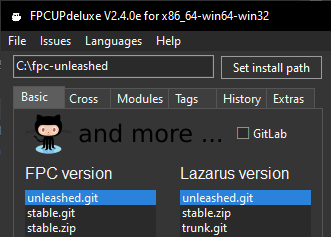
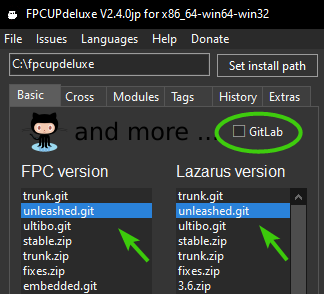
readme: rework installation section

diff --git a/README.md b/README.md
@@ -140,11 +140,19 @@ Semantic adjustments and small syntax unlocks - full catalog in [tweaks.md](unle
 
 Each feature has a dedicated reference page with the full grammar, semantics, edge cases, IDE notes, and a runnable demo. Start at the index: [unleashed/docs/README.md](unleashed/docs/README.md).
 
+## Unleashed IDE
+
+For the best experience, use **[Unleashed Pascal IDE](https://github.com/unleashedpascal/ide)** - a fork of the Lazarus IDE that understands unleashed mode end to end. Its parser, code completion, and Code Insight know the new syntax, so inline vars, tuples, `match`, `async` / `await`, and the rest autocomplete and navigate like any built-in construct, with no false-positive error markers in the editor.
+
+Stock Lazarus still builds and runs Unleashed projects fine, but its Code Insight does not recognize the new syntax and will flag it as errors. If you stay on stock Lazarus, enable the mode through `-Munleashed` in the project's Custom Options rather than `{$mode unleashed}` in the source - that keeps the editor's background parser quieter about the constructs it cannot model.
+
 ## Installation
 
-### Option 1: Official installer (recommended)
+### Option 1: Official installer
 
-Self-contained GUI installer for Windows and Linux: it downloads sources, builds the compiler and the Lazarus IDE into a directory of your choice, optionally installs cross compilers, and drops a desktop shortcut. No PATH changes, no registry side effects, no overwriting of an existing FPC. Run it again any time to add a cross target or pull an update - it applies only that change and leaves the rest of the install alone.
+Self-contained GUI installer for Windows and Linux: it downloads sources, builds the compiler and the IDE into a directory of your choice, optionally installs cross compilers, and drops a desktop shortcut wired to a per-install IDE config. No PATH changes, no registry side effects, no overwriting of an existing FPC - the whole thing lives in one folder and can be deleted by deleting that folder.
+
+Cross targets are checkboxes: `x86_64-win64`, `x86_64-linux`, `i386-win32`, `i386-linux`, `wasm32-wasip1`. You can also pin the compiler and the IDE to a branch or a specific commit instead of taking the latest.
 
 - Repo: [unleashedpascal/installer](https://github.com/unleashedpascal/installer)
 - Downloads: [installer/releases](https://github.com/unleashedpascal/installer/releases) - tagged stable releases plus a rolling `nightly` that tracks `main`
@@ -153,40 +161,17 @@ Self-contained GUI installer for Windows and Linux: it downloads sources, builds
 
 Run it, pick a directory (default `C:\unleashed` on Windows, `$HOME/unleashed` on Linux), tick the cross targets you want, click Install.
 
-### Option 2: Fresh install via fpcupdeluxe
+It can also build optional IDE addons in the same pass, so the editor is set up the way you like it before you write the first line - **Minimap** (a scaled-down view of the whole unit next to the editor), **MetaDarkStyle** (dark IDE theme), **CPU-View** (debugger plugin) and CHM help files, among others.
 
-1. Download [fpcupdeluxe](https://github.com/LongDirtyAnimAlf/fpcupdeluxe) and run it once to generate `fpcup.ini`.
-2. Add to `fpcup.ini`:
+Re-runs are surgical: unchanged parts self-skip, a newly ticked cross target gets built, an unticked one gets removed, and toggling an addon rebuilds just the IDE. Point it at an existing install to pull an update without touching anything else.
 
-```ini
-[ALIASfpcURL]
-unleashed.git=https://github.com/unleashedpascal/compiler.git
+### Option 2: fpcupdeluxe
 
-[ALIASlazURL]
-unleashed.git=https://github.com/unleashedpascal/ide.git
-```
+fpcupdeluxe supports Unleashed out of the box - nothing to configure. Download [fpcupdeluxe](https://github.com/LongDirtyAnimAlf/fpcupdeluxe/releases/tag/v2.4.0jpu), untick **GitLab**, and pick `unleashed.git` as the **FPC version** and the **Lazarus version**. From there it behaves like any regular FPC install: FPC only, Lazarus only, or both at once, with cross-compilers on the `Cross` tab.
 
-3. Reopen **fpcupdeluxe**, uncheck **GitLab**, and select `unleashed.git` as both the **FPC version** and the **Lazarus version**.
-4. In **Setup+** tick **Docked Lazarus IDE** (required - the default window layout is tuned for docked mode).
-5. Click **Install/update FPC+Lazarus**. Cross-compilers are on the `Cross` tab.
+In **Setup+** tick **Docked Lazarus IDE** - the default window layout is tuned for docked mode.
 
 ![fpcupdeluxe](unleashed/img/installation_fpcupdeluxe.png)
-
-### Option 3: Upgrade an existing fpcupdeluxe setup
-
-Delete or rename the `fpcsrc` folder in your installation directory, then:
-
-```bash
-git clone https://github.com/unleashedpascal/compiler.git fpcsrc
-```
-
-In fpcupdeluxe: **Setup+**, check **FPC/Laz rebuild only**, confirm, then click **Only FPC**.
-
-## Unleashed IDE
-
-For the best experience, use **[Unleashed Pascal IDE](https://github.com/unleashedpascal/ide)** - a fork of the Lazarus IDE that understands unleashed mode end to end. Its parser, code completion, and Code Insight know the new syntax, so inline vars, tuples, `match`, `async` / `await`, and the rest autocomplete and navigate like any built-in construct, with no false-positive error markers in the editor.
-
-Stock Lazarus still builds and runs Unleashed projects fine, but its Code Insight does not recognize the new syntax and will flag it as errors. If you stay on stock Lazarus, enable the mode through `-Munleashed` in the project's Custom Options rather than `{$mode unleashed}` in the source - that keeps the editor's background parser quieter about the constructs it cannot model.
 
 ## Contributing
 
